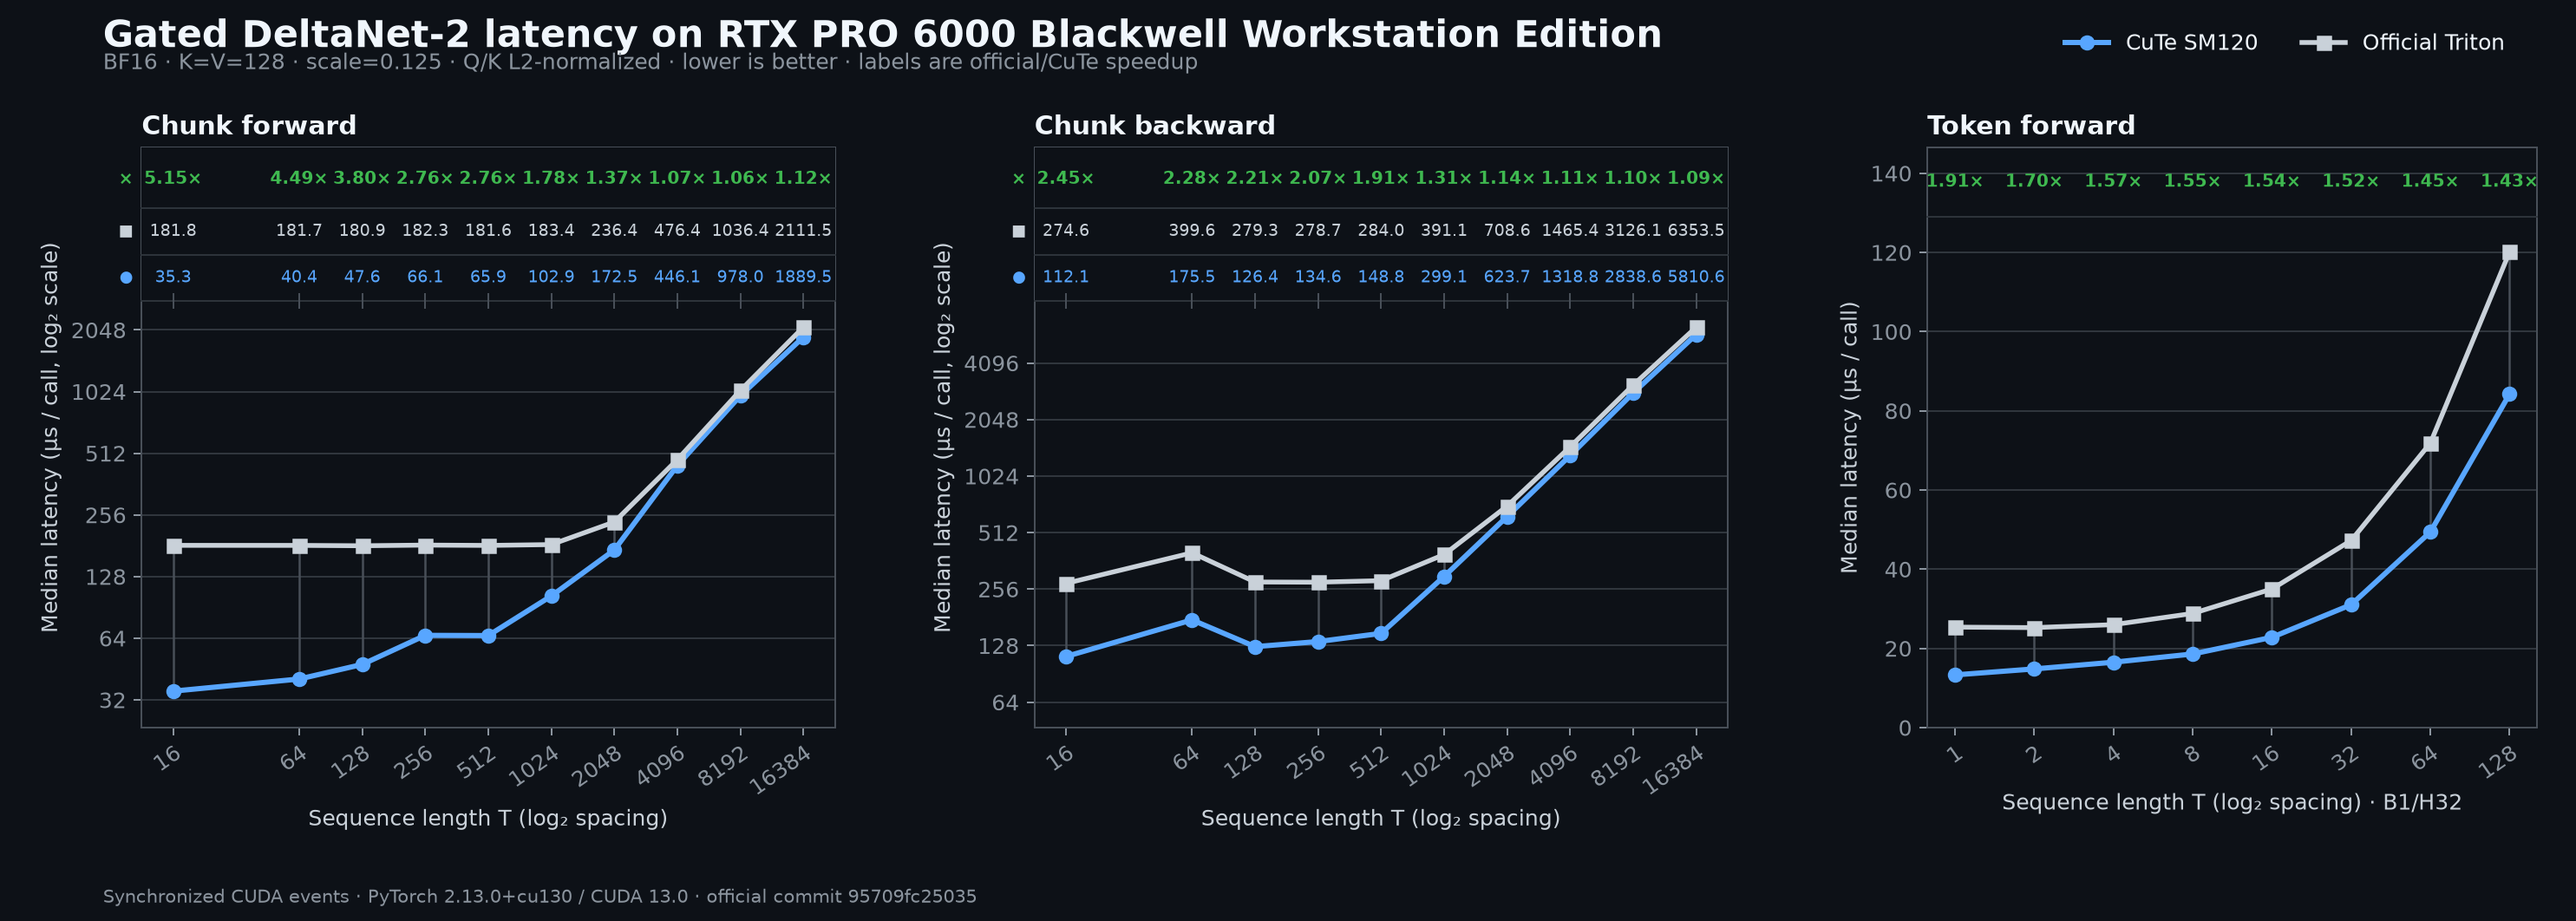
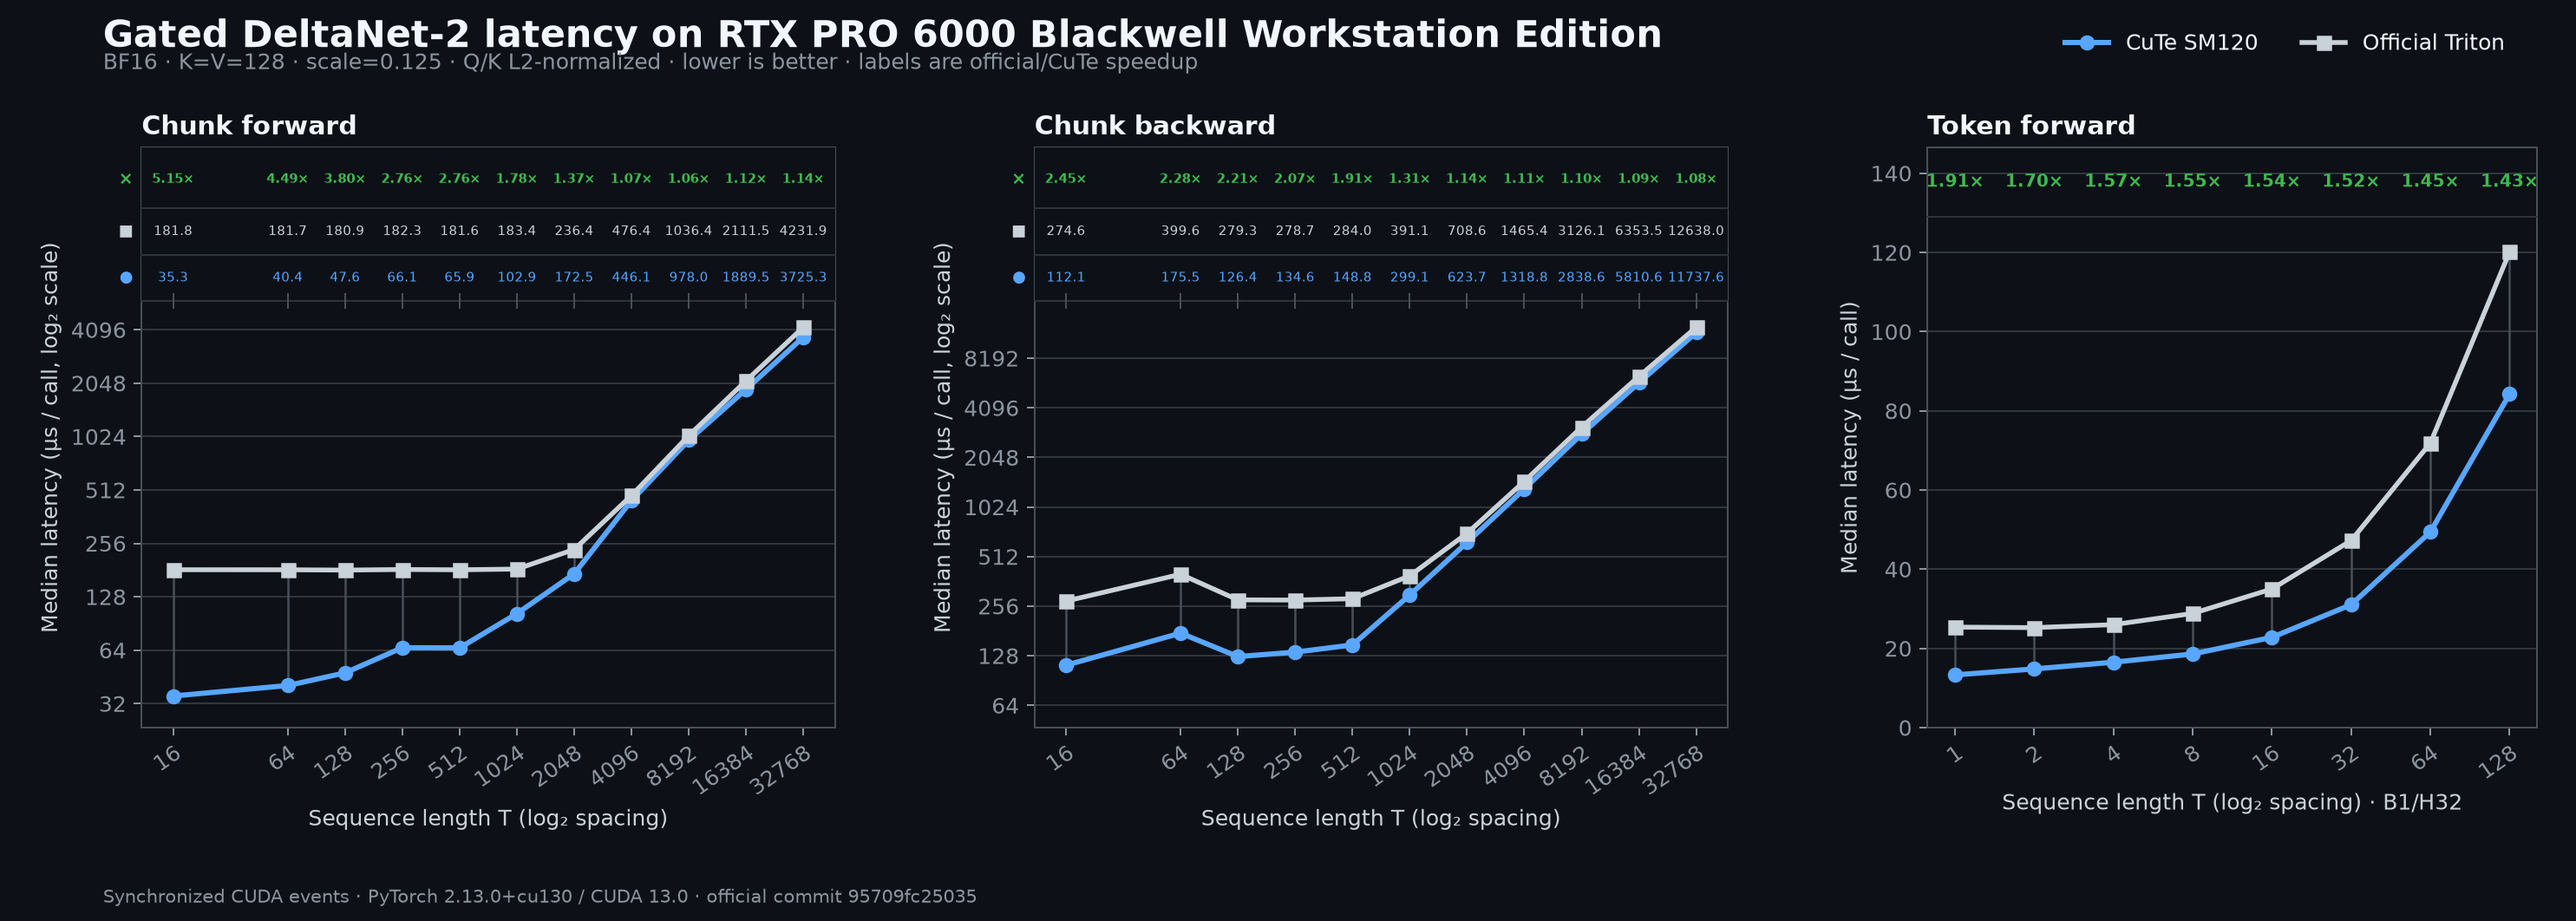
Add T32768 chunk benchmarks

diff --git a/src/gdn2_sm120/plot_benchmarks.py b/src/gdn2_sm120/plot_benchmarks.py
@@ -445,22 +445,30 @@ def _plot_chunk_panel(
         )
 
     rail_transform = axis.get_xaxis_transform()
+    speedup_fontsize = 6.2 if len(points) >= 11 else 7.8
+    latency_fontsize = 6.2 if len(points) >= 11 else 7.7
     for x, point in zip(xs, points, strict=True):
         speedup_label, speedup_color = _speedup_label(point.speedup, palette)
         for text, y, color, size, weight in (
-            (speedup_label, _CHUNK_SPEEDUP_ROW_Y, speedup_color, 7.8, "bold"),
+            (
+                speedup_label,
+                _CHUNK_SPEEDUP_ROW_Y,
+                speedup_color,
+                speedup_fontsize,
+                "bold",
+            ),
             (
                 f"{point.triton_median_us:.1f}",
                 _CHUNK_TRITON_ROW_Y,
                 triton_color,
-                7.7,
+                latency_fontsize,
                 "normal",
             ),
             (
                 f"{point.cute_median_us:.1f}",
                 _CHUNK_CUTE_ROW_Y,
                 cute_color,
-                7.7,
+                latency_fontsize,
                 "normal",
             ),
         ):

diff --git a/docs/benchmarks.md b/docs/benchmarks.md
@@ -59,6 +59,7 @@ CuTe-versus-official comparison.
 | chunk forward | 1 | 4096 | 16 | 20 / 100 | 446.1 | 476.4 | **1.07x** | 1.38e-3 |
 | chunk forward | 1 | 8192 | 16 | 20 / 100 | 978.0 | 1036.4 | **1.06x** | 1.41e-3 |
 | chunk forward | 1 | 16384 | 16 | 10 / 50 | 1889.5 | 2111.5 | **1.12x** | 1.50e-3 |
+| chunk forward | 1 | 32768 | 16 | 10 / 50 | 3725.3 | 4231.9 | **1.14x** | 1.82e-3 |
 | chunk backward | 1 | 16 | 16 | 40 / 300 | 112.1 | 274.6 | **2.45x** | 3.91e-3 |
 | chunk backward | 1 | 64 | 16 | 40 / 300 | 175.5 | 399.6 | **2.28x** | 2.44e-3 |
 | chunk backward | 1 | 128 | 16 | 40 / 300 | 126.4 | 279.3 | **2.21x** | 2.08e-3 |
@@ -69,6 +70,7 @@ CuTe-versus-official comparison.
 | chunk backward | 1 | 4096 | 16 | 20 / 100 | 1318.8 | 1465.4 | **1.11x** | 3.91e-3 |
 | chunk backward | 1 | 8192 | 16 | 20 / 100 | 2838.6 | 3126.1 | **1.10x** | 2.93e-3 |
 | chunk backward | 1 | 16384 | 16 | 10 / 50 | 5810.6 | 6353.5 | **1.09x** | 1.95e-3 |
+| chunk backward | 1 | 32768 | 16 | 10 / 50 | 11737.6 | 12638.0 | **1.08x** | 3.91e-3 |
 | token forward | 1 | 1 | 32 | 25 / 100 | 13.3 | 25.4 | **1.91x** | 2.98e-8 |
 | token forward | 1 | 2 | 32 | 25 / 100 | 14.8 | 25.2 | **1.70x** | 5.96e-8 |
 | token forward | 1 | 4 | 32 | 25 / 100 | 16.5 | 26.0 | **1.57x** | 5.96e-8 |
@@ -78,11 +80,11 @@ CuTe-versus-official comparison.
 | token forward | 1 | 64 | 32 | 25 / 100 | 49.4 | 71.9 | **1.45x** | 6.10e-5 |
 | token forward | 1 | 128 | 32 | 25 / 100 | 84.3 | 120.2 | **1.43x** | 6.10e-5 |
 
-Forward and backward both stay ahead at every measured point through T=16384.
+Forward and backward both stay ahead at every measured point through T=32768.
 The canonical B1/H16 T=64 point supplies 64 chunk-head CTAs and therefore takes
 the new CTA-aware compact-WY parameter VJP, together with the T=64 MMA boundary
 scan. T=128 additionally enables compact BF16 checkpoints and measures 126.4 us.
-The backward advantage narrows from 2.45x at T=16 to 1.09x at T=16384 without a
+The backward advantage narrows from 2.45x at T=16 to 1.08x at T=32768 without a
 measured crossover, while the checkpointed path also removes the old T=128
 correctness cap.
 
@@ -262,9 +264,9 @@ between old and new measurements.
 
 The optimization goal is met for all three kernel families and now extends to
 substantially longer chunk sequences. Chunk forward and backward-only are
-faster at every measured length through T=16384, and token forward is faster at
+faster at every measured length through T=32768, and token forward is faster at
 every fixed-B1/H32 point through T=128. The backward margin gradually narrows
-but remains 1.09x at the longest point. These are primitive-level latencies,
+but remains 1.08x at the longest point. These are primitive-level latencies,
 not complete training-throughput measurements. Reducing
 checkpoint/workspace memory, additional dimensions, packed sequences, and
 fused normalization/gates remain separate milestones; the measured B1/H16

diff --git a/README.md b/README.md
@@ -195,11 +195,13 @@ Representative BF16 medians on the target workstation are:
 | chunk forward | B1 T512 H16 | 65.9 us | 181.6 us | **2.76x** |
 | chunk forward | B1 T2048 H16 | 172.5 us | 236.4 us | **1.37x** |
 | chunk forward | B1 T16384 H16 | 1889.5 us | 2111.5 us | **1.12x** |
+| chunk forward | B1 T32768 H16 | 3725.3 us | 4231.9 us | **1.14x** |
 | chunk backward | B1 T16 H16 | 112.1 us | 274.6 us | **2.45x** |
 | chunk backward | B1 T64 H16 | 175.5 us | 399.6 us | **2.28x** |
 | chunk backward | B1 T512 H16 | 148.8 us | 284.0 us | **1.91x** |
 | chunk backward | B1 T2048 H16 | 623.7 us | 708.6 us | **1.14x** |
 | chunk backward | B1 T16384 H16 | 5810.6 us | 6353.5 us | **1.09x** |
+| chunk backward | B1 T32768 H16 | 11737.6 us | 12638.0 us | **1.08x** |
 | token forward | B1 T1 H32 | 13.3 us | 25.4 us | **1.91x** |
 | token forward | B1 T128 H32 | 84.3 us | 120.2 us | **1.43x** |
 
@@ -239,8 +241,8 @@ log-decay, optional initial state, final-state VJPs, empty recurrent sequences,
 non-default CUDA streams, unaligned contiguous recurrent states, reusable
 output buffers, and explicit in-place recurrent state updates. In the measured
 B1/H16 BF16 sweep, both chunk forward and chunk backward remain faster than the
-official path at every sampled length through T=16384. Backward speedup ranges
-from 2.45x at T=16 to 1.09x at T=16384. The fixed B1/H32 token sweep is 1.91x
+official path at every sampled length through T=32768. Backward speedup ranges
+from 2.45x at T=16 to 1.08x at T=32768. The fixed B1/H32 token sweep is 1.91x
 faster at T=1 and 1.43x faster at T=128. The checkpointed path trades memory
 for speed: compact BF16 boundaries halve checkpoint bytes relative to FP32, but
 the CuTe path still retains both boundary sets and compact-WY workspace and

diff --git a/docs/design.md b/docs/design.md
@@ -136,7 +136,7 @@ cap. Tensor-core operands and long BF16 checkpoints are stored or narrowed to
 the input dtype, so the long VJP is a controlled low-precision approximation
 rather than a bit-exact FP32 VJP. Tests require per-gradient relative L2 error
 below 1% and maximum absolute error below `5e-3`; measured official comparisons
-through T=16384 remain within `3.91e-3` maximum absolute error.
+through T=32768 remain within `3.91e-3` maximum absolute error.
 
 For B1/T512/H16, the compact-WY stage uses about 22 MiB of lifetime-colored
 sequence workspace plus 1.5 MiB of square workspace.
@@ -236,7 +236,7 @@ Chunk-forward tensor layouts and preparation are shape-specialized, while the
 full-chunk inter-state scan uses a runtime chunk loop. The state dependency is
 still sequential across chunks, but the rearranged long-BF16 pipeline removes
 one product from that critical path and remains faster than the official path
-through the longest measured sequence, T=16384.
+through the longest measured sequence, T=32768.
 
 ## Primary references
 
